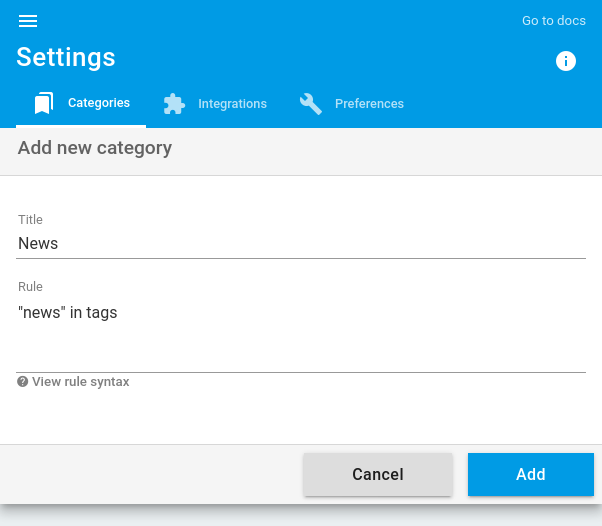
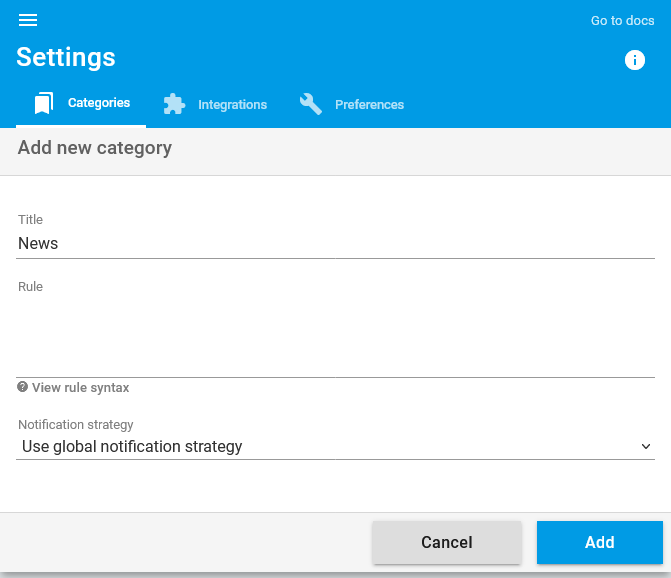
doc(category): add notification strategy section

diff --git a/docs/content/fr/read-flow/categories/index.md b/docs/content/fr/read-flow/categories/index.md
@@ -17,7 +17,27 @@ Vous pouvez ajouter une catégorie en cliquant sur le bouton `Add category`.
 
 ![](images/add.png)
 
-Une catégorie est un simple titre et une règle d'affectation.
+Une catégorie est définie par :
+
+- un titre
+- une règle d'affectation
+- une stratégie de notification
+
+## Stratégie de notification
+
+Il est possible de spécifier la stratégie d'envoi de notification pour une catégorie donnée. Il est possible:
+
+- De ne pas envoyer de notification.
+- D'envoyer une notification dés qu'un article est reçu (avec toutefois une limite de fréquence).
+- D'envoyer une notification en suivant les règles globales.
+
+Les règles globales dépendent de la configuration de readflow mais suivent les principes suivants:
+
+Une notification est envoyée si:
+
+- Un groupe d'article a été constitué ;
+- L'utilisateur n'a pas utilisé l'application depuis un certains temps ;
+- Et enfin dans une limite de fréquence donnée.
 
 ## Règle
 
@@ -52,7 +72,7 @@ Au sein de la règle il est possible de faire référence à certains attributs:
 
 #### Les autres opérateurs
 
-- `~` (concatenation)
+- `~` (concaténation)
   *Exemple:* `'Harry' ~ ' ' ~ 'Potter'` donnera `Harry Potter`
 - `in` (contient)
 - `not in` (ne contient pas)

diff --git a/docs/content/en/read-flow/categories/index.md b/docs/content/en/read-flow/categories/index.md
@@ -17,7 +17,27 @@ You can add a category by clicking on `Add category` button.
 
 ![](images/add.png)
 
-A category is a simple title and assignment rule.
+A category is defined by :
+
+- a title
+- an assignment rule
+- a notification strategy
+
+## Notification strategy
+
+It is possible to specify the notification strategy for a given category. It is possible to:
+
+- Not to send a notification.
+- Send a notification as soon as an article is received (but with a frequency limit).
+- Send a notification following the global rules.
+
+The global rules depend on the readflow configuration but follow the following principles:
+
+A notification is sent if:
+
+- An article group has been created;
+- The user has not used the application for a while;
+- And within a given frequency limit.
 
 ## Rule
 
